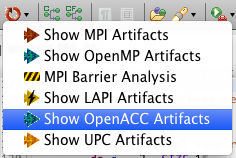
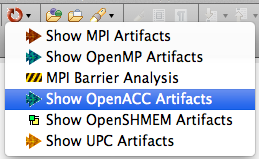
fix OpenACC typos and use new PLDT menu screenshot (OpenSHMEM is added; LAPI is omitted)

diff --git a/tools/pldt/org.eclipse.ptp.pldt.doc.user/html/runOpenACC.html b/tools/pldt/org.eclipse.ptp.pldt.doc.user/html/runOpenACC.html
@@ -15,14 +15,14 @@ Running the OpenACC Tools within the Parallel Language Development Tools
 <ol>
 <li>Within the project, create a source file that includes OpenACC code.
 <li>In the Project Explorer View, select the source file to analyze, to find the OpenACC artifacts.
-To do this, click on the source file in the Project Explorer on the left to highlight it.
-<p>Click the "Show MPI Artifacts" menu item in the PLDT icon menu  in the tool bar.
+To do this, select the source file in the Project Explorer on the left to highlight it.
+<p>Select the "Show OpenACC Artifacts" menu item in the PLDT icon menu  in the tool bar.
 <br> <img src="images/accMenu.png">
 <br>(Note: if it complains that a source file is not selected the first time, select it again and retry.)
 <p>The workbench with the selection and menu item is shown below:
 
 <p><script> thumb("images/accButtons.gif",300)</script>
-<li>The MPI Artifact View is opened, if it was not present.
+<li>The OpenACC Artifact View is opened, if it was not present.
 It is populated with OpenACC artifacts found.
 <p><script> thumb("images/accViewAnn.gif",300)</script>
 
@@ -31,10 +31,10 @@ It is populated with OpenACC artifacts found.
 <li>Double click on any line in the OpenACC Artifact View
 to navigate the editor to that line in the source file.
 <li>Rows in the OpenACC Artifact View can be sorted by any of the columns.
-Click on the column heading to sort.
-<li>Click the "Clear OpenACC Artifacts Markers" button (red X)
+Select the column heading to sort.
+<li>Select the "Clear OpenACC Artifacts Markers" button (red X)
 in the tool bar <i>of the OpenACC Artifact View</i> to remove all
-the MPI artifacts.
+the OpenACC artifact markers.
 <br><img src="images/accClearMarkers.png"> 
 <li>You can run the analysis on another file and its markers
 will be added to the view.

diff --git a/tools/pldt/org.eclipse.ptp.pldt.doc.user/html/whatsnew.html b/tools/pldt/org.eclipse.ptp.pldt.doc.user/html/whatsnew.html
@@ -11,9 +11,11 @@ PTP Parallel Language Development Tools
 New and Noteworthy </h1>
 <p>What's new in 6.0
 <ul>
-<li>Support for MPI 2.2
-<li>OpenACC support (C and Fortran)
+<li>Support for MPI upgraded to 2.2
+<li>Support for OpenMP upgraded to 3.1
+<li>Support for OpenACC  (C and Fortran)
 <li>MPI and OpenACC documentation integrated with Photran
+<li>Support for OpenSHMEM
 </li></ul>
 
 <p>What's new in 5.0

diff --git a/tools/pldt/org.eclipse.ptp.pldt.doc.user/html/overview.html b/tools/pldt/org.eclipse.ptp.pldt.doc.user/html/overview.html
@@ -21,6 +21,7 @@ PLDT is part of the <a href="PLUGINS_ROOT/org.eclipse.ptp.doc.user/html/toc.html
 <li>LAPI
 <li>UPC
 <li>OpenACC
+<li>OpenSHMEM
 <li> ... and others as provided by optional extensions.
 </ul>
 <li>"Artifact View" indicates locations of Artifacts found
